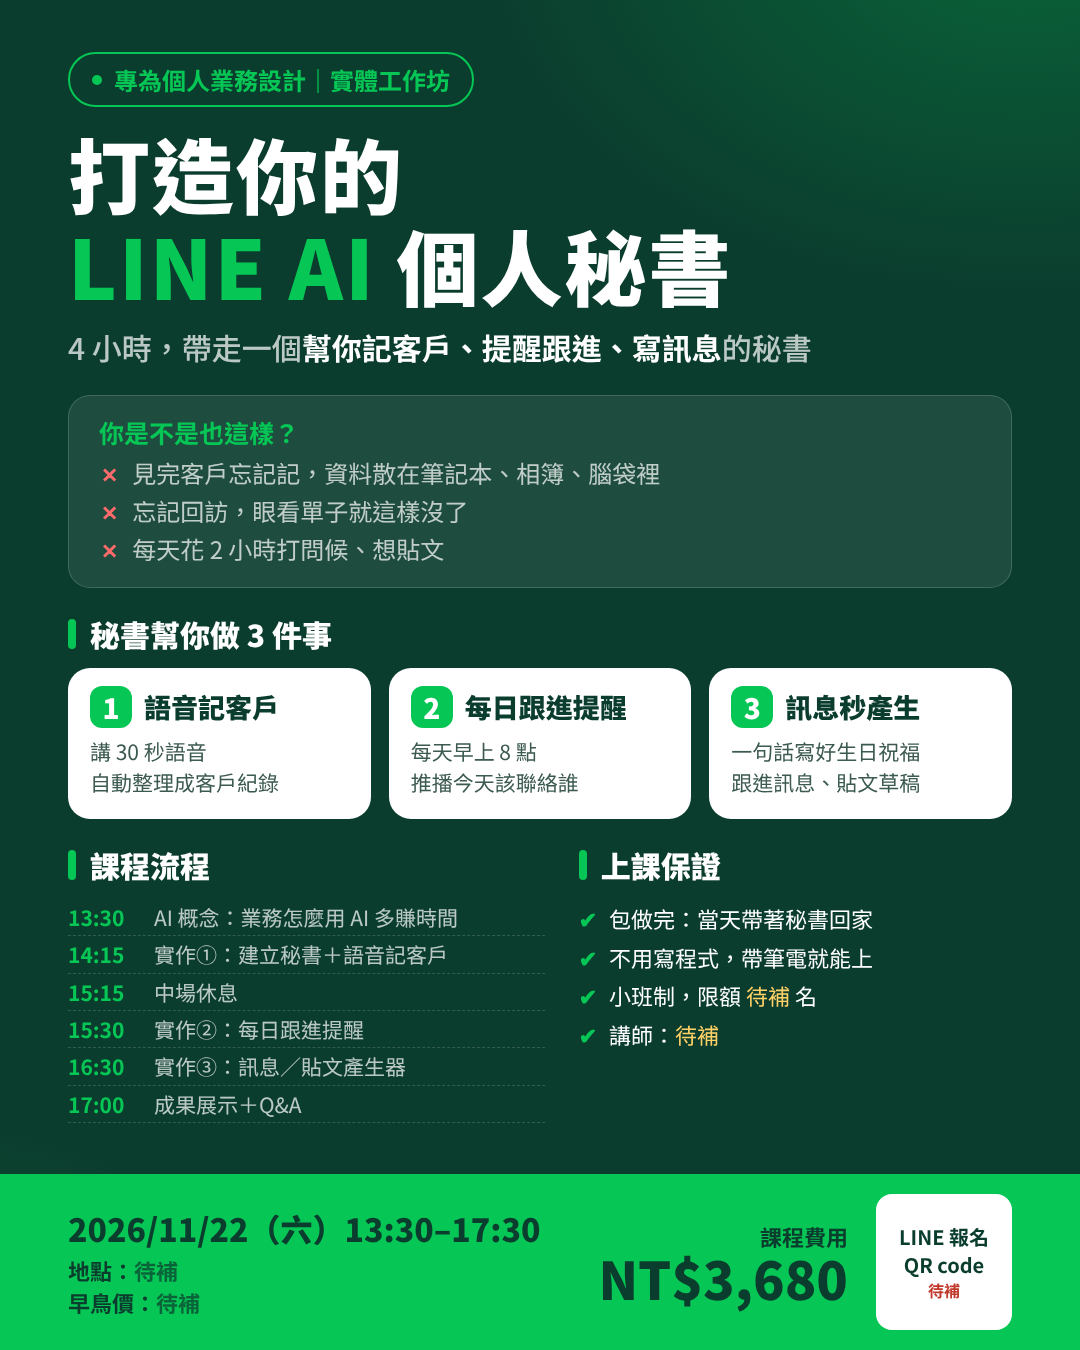
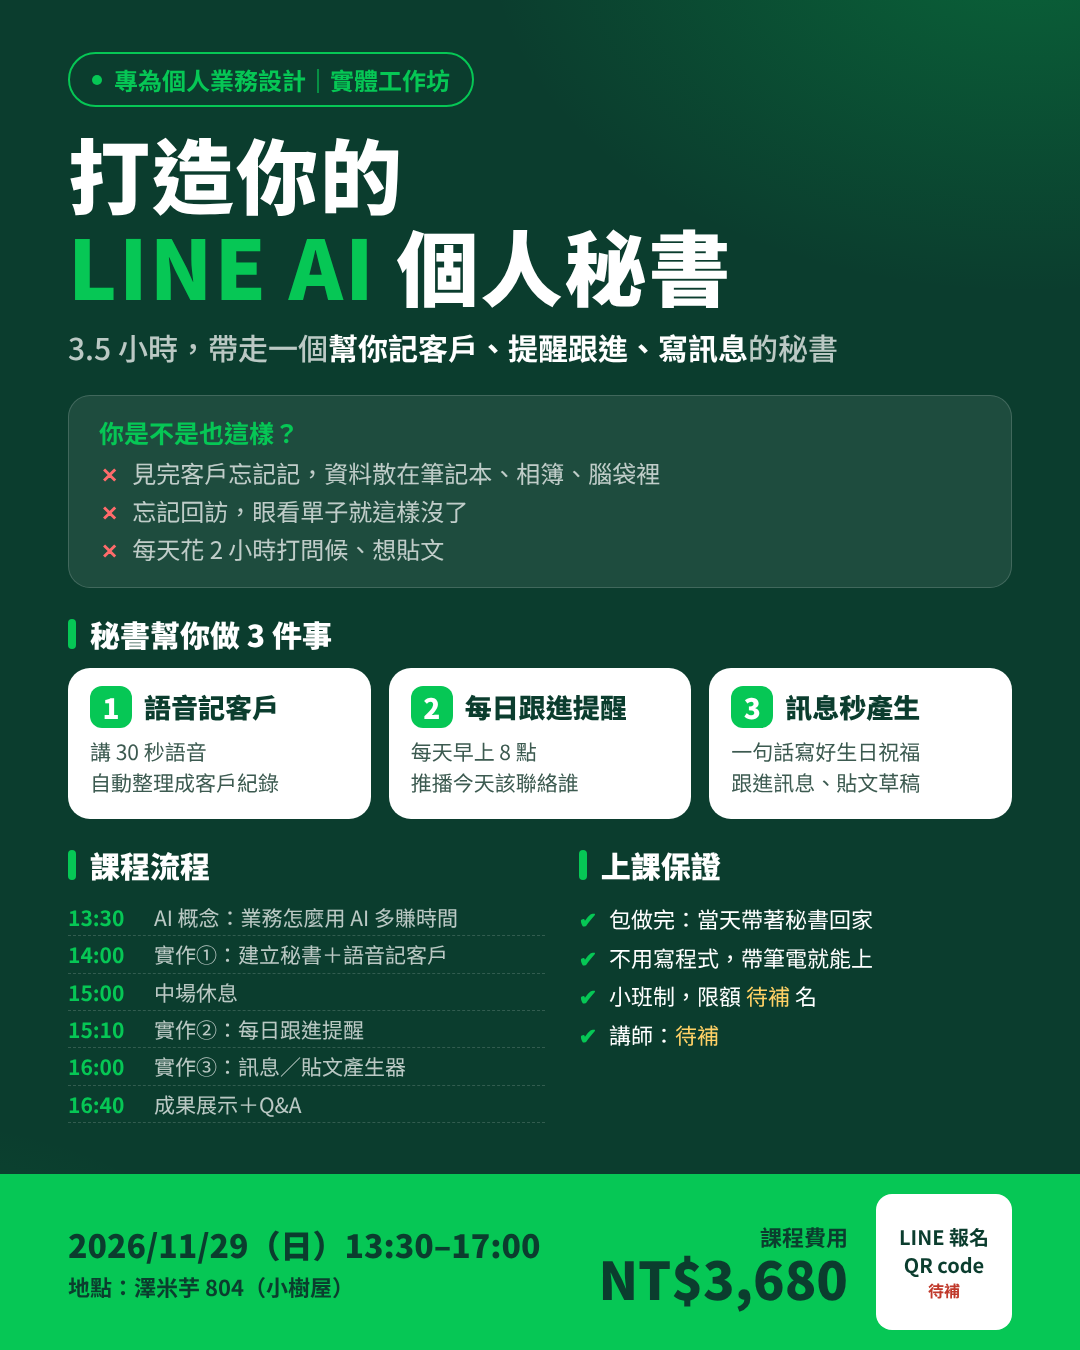
DM 改為 11/29 13:30-17:00、地點澤米芋804、移除早鳥
Claude-Session: https://claude.ai/code/session_01SgizkCoUwjKyBL5st62JVY

Changed region(s): [[0.0611, 0.9022, 0.5194, 0.9956], [0.0611, 0.2489, 0.7944, 0.28], [0.0917, 0.6844, 0.1222, 0.7467]]

diff --git a/dm-ai-secretary/aisec_dm.html b/dm-ai-secretary/aisec_dm.html
@@ -61,7 +61,7 @@ body{background:#222;font-family:"Noto Sans TC","WenQuanYi Zen Hei",sans-serif}
 <div class="aisec-dm" id="aisec_dm">
   <div class="aisec-chip"><i></i>專為個人業務設計｜實體工作坊</div>
   <h1 class="aisec-title">打造你的<br><em>LINE AI</em> 個人秘書</h1>
-  <p class="aisec-sub">4 小時，帶走一個<b>幫你記客戶、提醒跟進、寫訊息</b>的秘書</p>
+  <p class="aisec-sub">3.5 小時，帶走一個<b>幫你記客戶、提醒跟進、寫訊息</b>的秘書</p>
 
   <div class="aisec-pain">
     <h3>你是不是也這樣？</h3>
@@ -82,11 +82,11 @@ body{background:#222;font-family:"Noto Sans TC","WenQuanYi Zen Hei",sans-serif}
       <div class="aisec-h">課程流程</div>
       <ul class="aisec-tl">
         <li><b>13:30</b><span>AI 概念：業務怎麼用 AI 多賺時間</span></li>
-        <li><b>14:15</b><span>實作①：建立秘書＋語音記客戶</span></li>
-        <li><b>15:15</b><span>中場休息</span></li>
-        <li><b>15:30</b><span>實作②：每日跟進提醒</span></li>
-        <li><b>16:30</b><span>實作③：訊息／貼文產生器</span></li>
-        <li><b>17:00</b><span>成果展示＋Q&amp;A</span></li>
+        <li><b>14:00</b><span>實作①：建立秘書＋語音記客戶</span></li>
+        <li><b>15:00</b><span>中場休息</span></li>
+        <li><b>15:10</b><span>實作②：每日跟進提醒</span></li>
+        <li><b>16:00</b><span>實作③：訊息／貼文產生器</span></li>
+        <li><b>16:40</b><span>成果展示＋Q&amp;A</span></li>
       </ul>
     </div>
     <div>
@@ -102,8 +102,8 @@ body{background:#222;font-family:"Noto Sans TC","WenQuanYi Zen Hei",sans-serif}
 
   <div class="aisec-foot">
     <div class="info">
-      <div class="date">2026/11/22（六）13:30–17:30</div>
-      <div class="meta">地點：<span style="opacity:.7">待補</span><br>早鳥價：<span style="opacity:.7">待補</span></div>
+      <div class="date">2026/11/29（日）13:30–17:00</div>
+      <div class="meta">地點：澤米芋 804（小樹屋）</div>
     </div>
     <div class="aisec-price"><small>課程費用</small><strong>NT$3,680</strong></div>
     <div class="aisec-qr">LINE 報名<br>QR code<span>待補</span></div>
